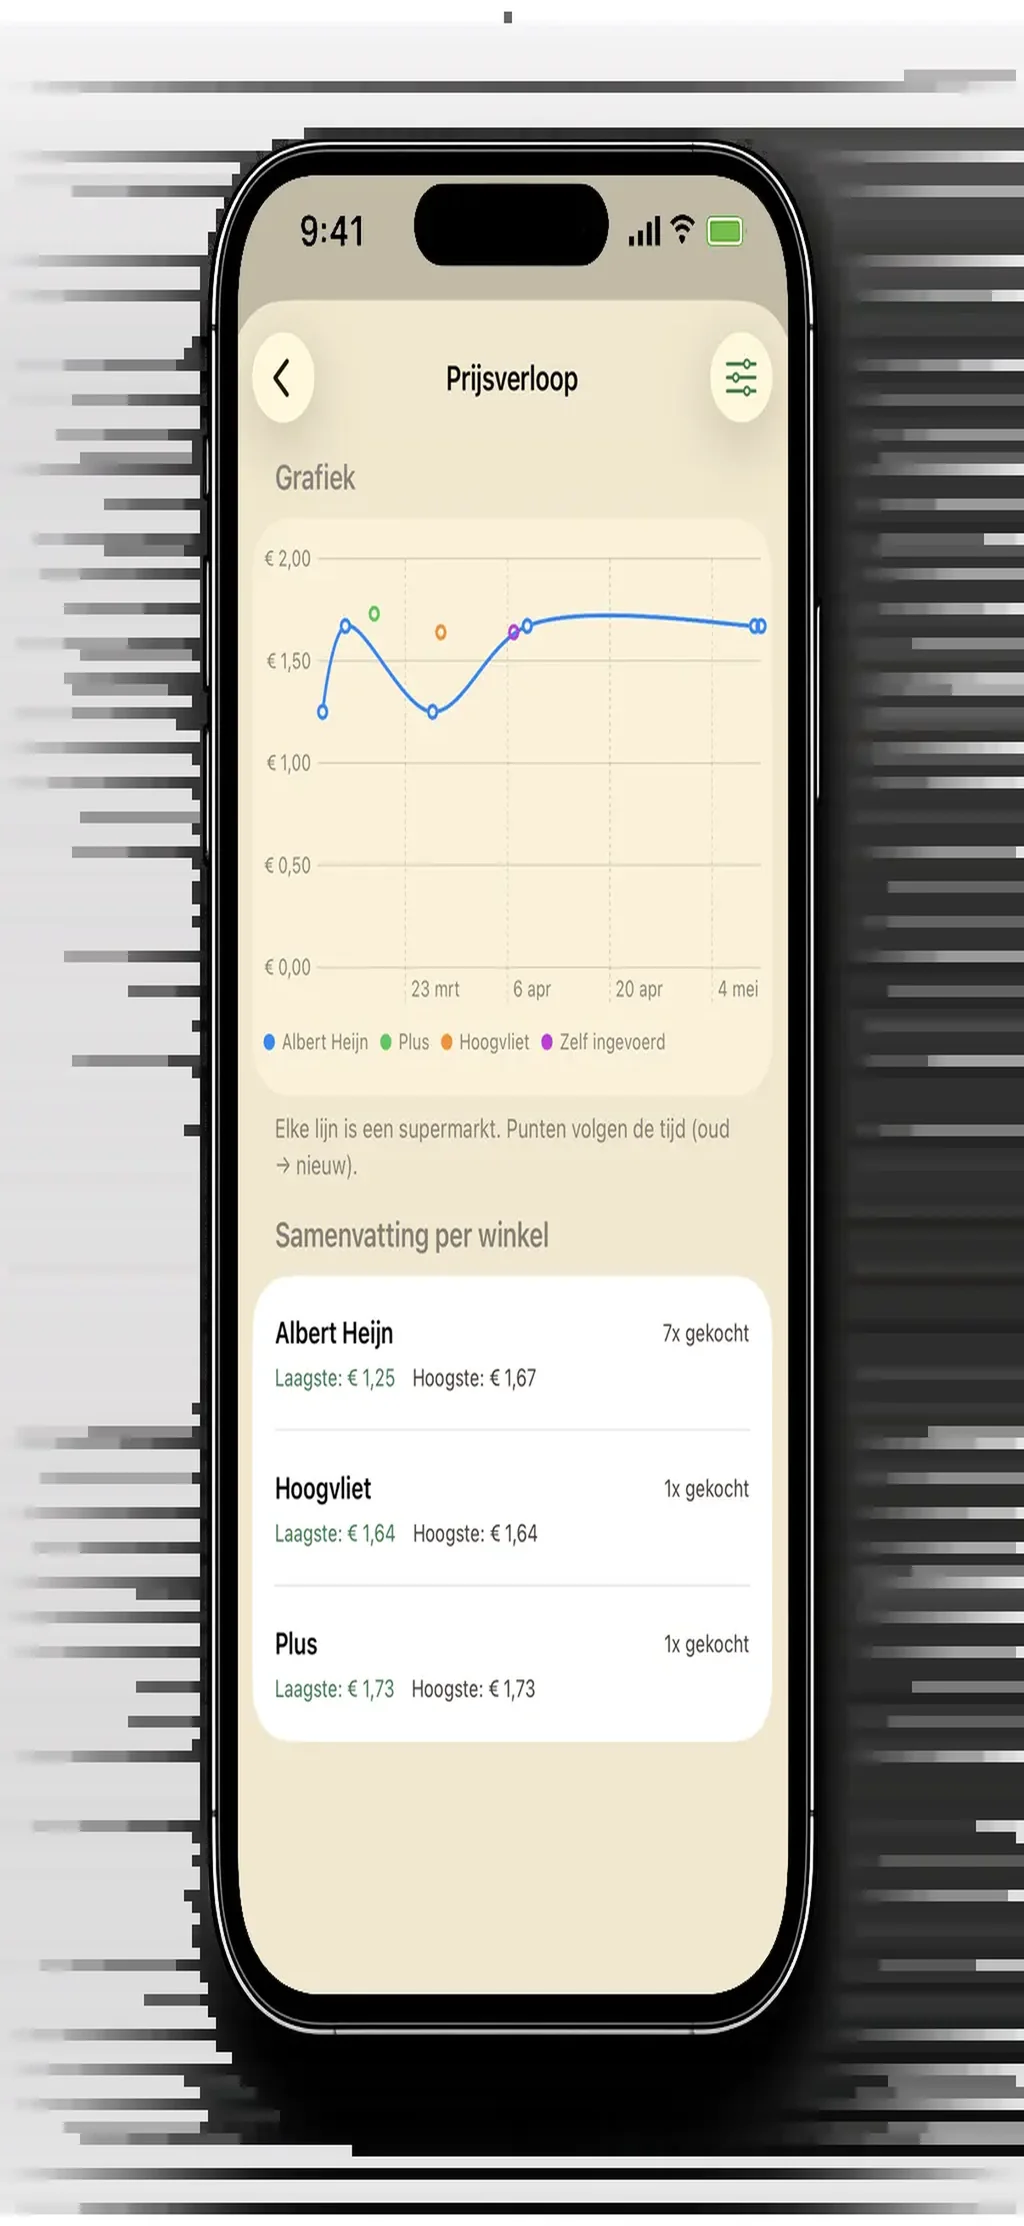
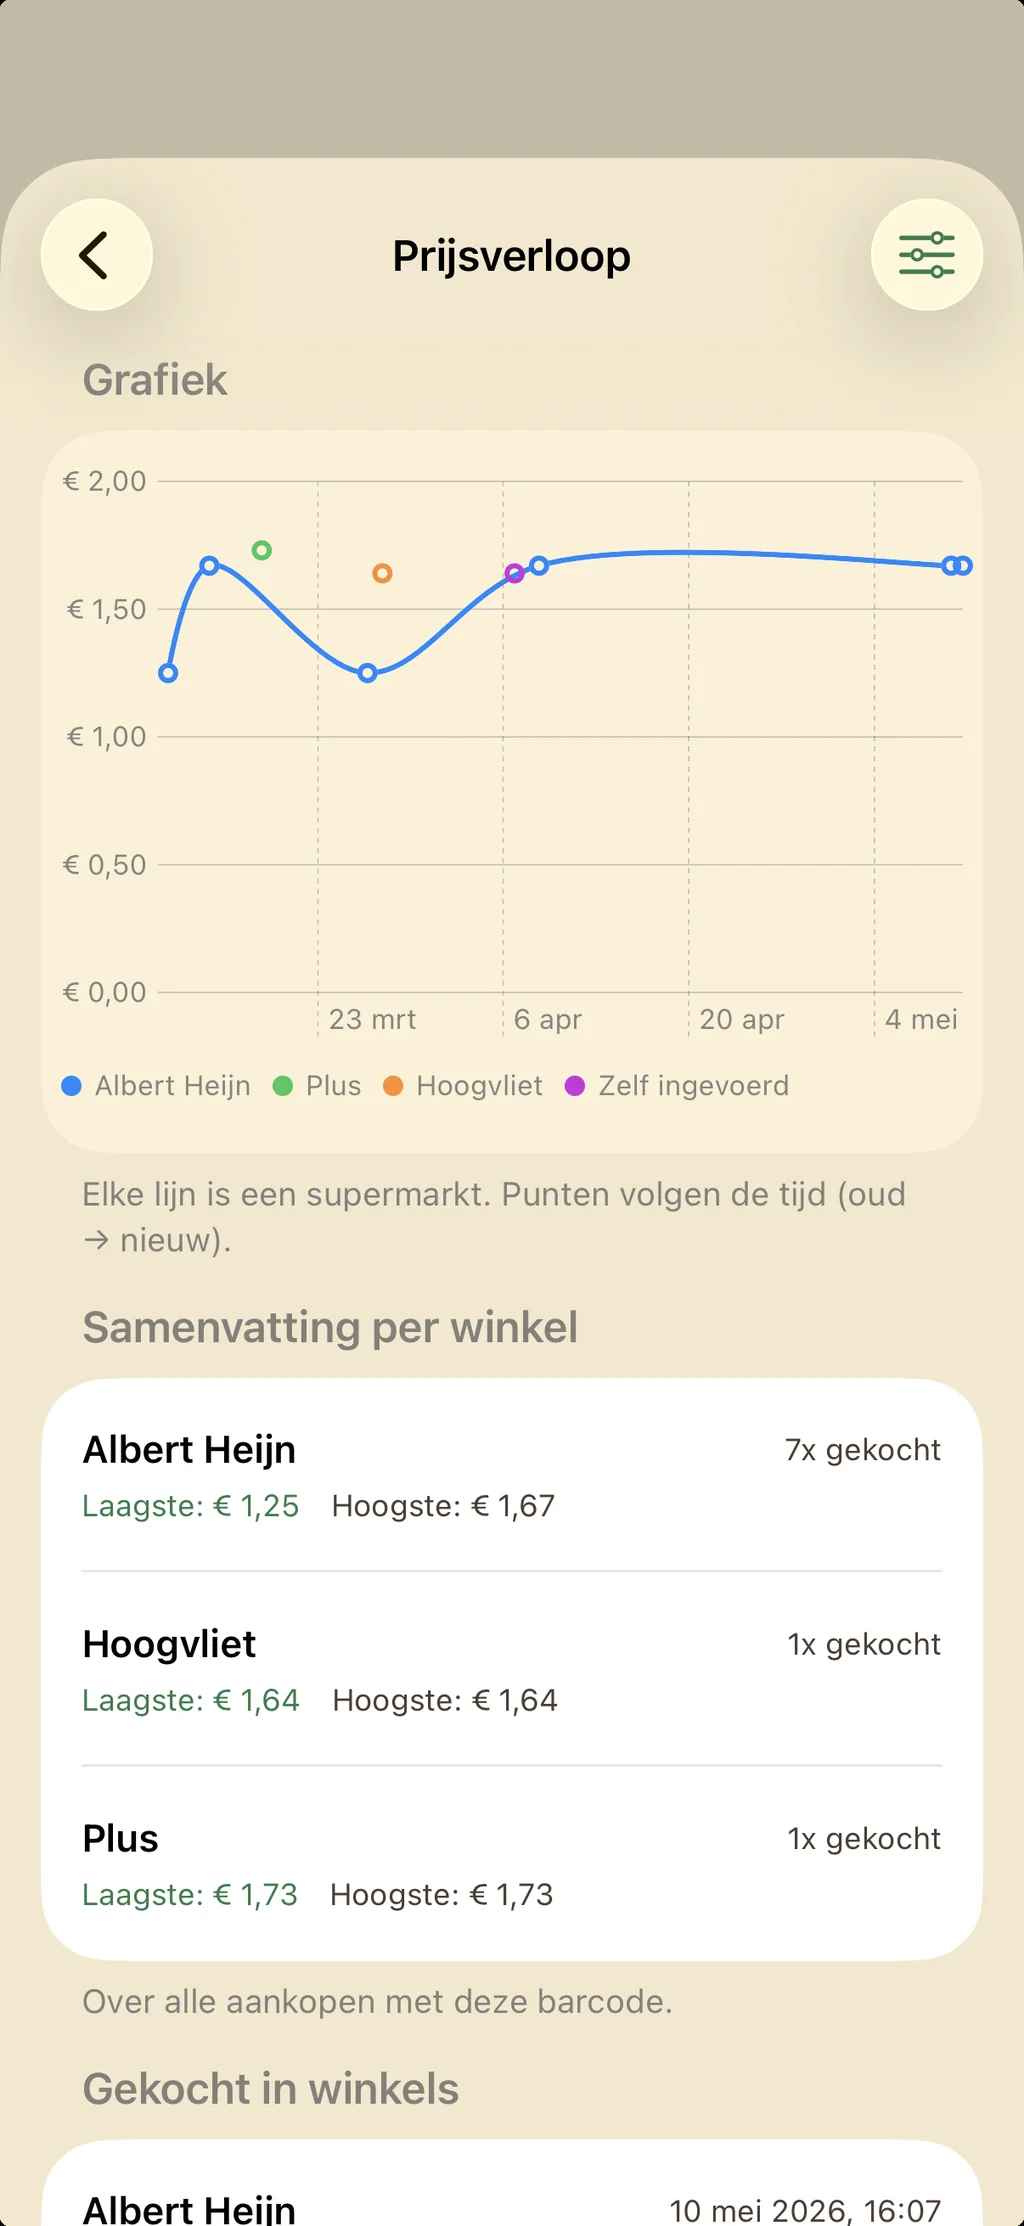
Add files via upload

diff --git a/css/style.css b/css/style.css
@@ -9,6 +9,8 @@
   --primary-light: #2d7a4a;
   --light-color: #f4f7f5;
   --dark-color: #163126;
+  --green-dark: #142920;
+  --green-mid: #1b4d2e;
   --muted-color: #4f6c60;
   --line-color: #d7e6df;
 }
@@ -169,15 +171,22 @@ img {
 .hero-trust {
   display: flex;
   flex-wrap: wrap;
-  gap: 10px 18px;
+  gap: 10px 22px;
   font-size: 0.88rem;
   color: var(--muted-color);
 }
 
+.hero-trust span {
+  display: inline-flex;
+  align-items: center;
+  gap: 10px;
+}
+
 .hero-trust span::before {
-  content: '\2713 ';
+  content: '\2713';
   color: var(--primary-light);
   font-weight: 700;
+  flex-shrink: 0;
 }
 
 /* App Store badge */
@@ -240,6 +249,33 @@ img {
 
 .video {
   padding: 10px 0 40px;
+  background-color: var(--green-dark);
+  color: #fff;
+}
+
+.video .text-xl,
+.video .text-md {
+  color: #fff;
+}
+
+.video .btn-primary {
+  background-color: #fff;
+  color: var(--green-dark);
+}
+
+.video .btn-primary:hover {
+  background-color: #e8f3ec;
+  opacity: 1;
+}
+
+.footer.bg-black .btn-primary {
+  background-color: #fff;
+  color: var(--green-dark);
+}
+
+.footer.bg-black .btn-primary:hover {
+  background-color: #e8f3ec;
+  opacity: 1;
 }
 
 .video-content {
@@ -310,11 +346,14 @@ img {
 .testimonials {
   padding: 40px 0;
   display: block;
+  background-color: var(--green-mid);
+  color: #fff;
 }
 
 .testimonials .testimonials-heading {
   max-width: 700px;
   margin-bottom: 40px;
+  color: #fff;
 }
 
 .testimonials-grid {
@@ -323,19 +362,15 @@ img {
   gap: 30px;
 }
 
-.testimonials .card p:first-child {
-  margin-bottom: 20px;
-  color: var(--muted-color);
+.testimonials .card h4 {
+  margin: 0 0 12px;
+  font-size: 1.05rem;
+  color: var(--primary-color);
 }
 
-.testimonials .card p:nth-child(2) {
-  margin-top: 30px;
-  font-weight: bold;
-}
-
-.testimonials .card p:nth-child(3) {
+.testimonials .card p {
+  margin: 0;
   color: var(--muted-color);
-  font-size: 0.9rem;
 }
 
 /* Pricing */
@@ -380,9 +415,18 @@ img {
   color: var(--muted-color);
 }
 
+.pricing .card.bg-black {
+  background-color: var(--green-dark);
+  color: #fff;
+}
+
 .pricing .card.bg-black ul li,
 .pricing .card.bg-black p {
-  color: #ddd;
+  color: #e8f0eb;
+}
+
+.pricing .card.bg-black .pricing-card-price {
+  border-bottom-color: rgba(255, 255, 255, 0.2);
 }
 
 /* FAQ */
@@ -473,15 +517,6 @@ img {
   height: 44px;
   border-radius: 10px;
   margin-bottom: 16px;
-}
-
-.footer-bottom {
-  margin-top: 30px;
-  padding-top: 20px;
-  border-top: 1px solid #333;
-  text-align: center;
-  font-size: 0.9rem;
-  color: #999;
 }
 
 /* Subpages */
@@ -671,13 +706,26 @@ img {
 }
 
 .bg-dark {
-  background-color: var(--dark-color);
+  background-color: var(--green-mid);
   color: #fff;
 }
 
 .bg-black {
-  background-color: black;
+  background-color: var(--green-dark);
   color: #fff;
+}
+
+.footer.bg-black {
+  background-color: var(--green-dark);
+}
+
+.footer-bottom {
+  margin-top: 30px;
+  padding-top: 20px;
+  border-top: 1px solid rgba(255, 255, 255, 0.15);
+  text-align: center;
+  font-size: 0.9rem;
+  color: #b8cfc4;
 }
 
 /* Hamburger Button */

diff --git a/home.html b/home.html
@@ -43,11 +43,7 @@
             <li><a href="home.html" class="active">Home</a></li>
             <li><a href="hoe-het-werkt.html">Hoe het werkt</a></li>
             <li><a href="support.html">Support</a></li>
-            <li>
-              <a class="btn btn-primary" href="index.html">
-                <i class="fas fa-shield-halved"></i> Privacy
-              </a>
-            </li>
+            <li><a href="index.html">Privacy</a></li>
           </ul>
         </div>
 
@@ -61,7 +57,7 @@
             <li><a href="home.html" class="active">Home</a></li>
             <li><a href="hoe-het-werkt.html">Hoe het werkt</a></li>
             <li><a href="support.html">Support</a></li>
-            <li><a class="btn btn-primary" href="index.html"><i class="fas fa-shield-halved"></i> Privacy</a></li>
+            <li><a href="index.html">Privacy</a></li>
           </ul>
         </div>
       </div>
@@ -186,36 +182,33 @@
       </div>
     </section>
 
-    <!-- Testimonials / Use cases -->
+    <!-- Kernpunten -->
     <section class="section testimonials bg-dark">
       <div class="container">
         <h3 class="testimonials-heading text-xl">
-          Waarom gebruikers BoodschappenScan kiezen — eerlijk prijsinzicht zonder valse beloftes
+          Waarom BoodschappenScan — eerlijk prijsinzicht zonder valse beloftes
         </h3>
         <div class="testimonials-grid">
           <div class="card">
+            <h4>Jouw eigen database</h4>
             <p>
-              “Ik begon met een lege app en vulde alles zelf in. Na een paar maanden zie ik duidelijk
-              welke supermarkt voor mijn vaste boodschappen het voordeligst is.”
+              Je begint met een lege app en vult alles zelf in. Na verloop van tijd zie je
+              welke supermarkt voor jouw vaste boodschappen historisch het voordeligst is.
             </p>
-            <p>Thuis op de bon</p>
-            <p>Handmatig invoeren na het winkelen</p>
           </div>
           <div class="card">
+            <h4>Privé by design</h4>
             <p>
-              “Geen account, geen advertenties — alles blijft op mijn iPhone. Precies wat ik zocht
-              voor mijn boodschappenbudget zonder mijn data te delen.”
+              Geen account, geen advertenties — alles blijft op je iPhone. Je maakt zelf
+              een back-up wanneer jij dat wilt.
             </p>
-            <p>Privé by design</p>
-            <p>Lokaal opgeslagen, zelf back-up maken</p>
           </div>
           <div class="card">
+            <h4>Meerdere supermarkten</h4>
             <p>
-              “De vergelijkingsfunctie wordt steeds beter naarmate ik bij meer winkels bonnen invoer.
-              Kiloprijs en categorieën helpen echt bij eerlijke vergelijking.”
+              Hoe vaker je bij verschillende ketens bonnen invoert, hoe betrouwbaarder je
+              vergelijking wordt. Kiloprijs en categorieën helpen bij een eerlijke vergelijking.
             </p>
-            <p>Meerdere supermarkten</p>
-            <p>Secuur invoeren loont op lange termijn</p>
           </div>
         </div>
       </div>

diff --git a/hoe-het-werkt.html b/hoe-het-werkt.html
@@ -27,7 +27,7 @@
           <li><a href="home.html">Home</a></li>
           <li><a href="hoe-het-werkt.html" class="active">Hoe het werkt</a></li>
           <li><a href="support.html">Support</a></li>
-          <li><a class="btn btn-primary" href="index.html"><i class="fas fa-shield-halved"></i> Privacy</a></li>
+          <li><a href="index.html">Privacy</a></li>
         </ul>
       </div>
       <button class="hamburger-button" aria-label="Menu openen">
@@ -40,7 +40,7 @@
           <li><a href="home.html">Home</a></li>
           <li><a href="hoe-het-werkt.html" class="active">Hoe het werkt</a></li>
           <li><a href="support.html">Support</a></li>
-          <li><a class="btn btn-primary" href="index.html"><i class="fas fa-shield-halved"></i> Privacy</a></li>
+          <li><a href="index.html">Privacy</a></li>
         </ul>
       </div>
     </div>

diff --git a/index.html b/index.html
@@ -27,7 +27,7 @@
           <li><a href="home.html">Home</a></li>
           <li><a href="hoe-het-werkt.html">Hoe het werkt</a></li>
           <li><a href="support.html">Support</a></li>
-          <li><a class="btn btn-primary active" href="index.html"><i class="fas fa-shield-halved"></i> Privacy</a></li>
+          <li><a href="index.html" class="active">Privacy</a></li>
         </ul>
       </div>
       <button class="hamburger-button" aria-label="Menu openen">
@@ -40,7 +40,7 @@
           <li><a href="home.html">Home</a></li>
           <li><a href="hoe-het-werkt.html">Hoe het werkt</a></li>
           <li><a href="support.html">Support</a></li>
-          <li><a class="btn btn-primary active" href="index.html"><i class="fas fa-shield-halved"></i> Privacy</a></li>
+          <li><a href="index.html" class="active">Privacy</a></li>
         </ul>
       </div>
     </div>

diff --git a/support.html b/support.html
@@ -27,7 +27,7 @@
           <li><a href="home.html">Home</a></li>
           <li><a href="hoe-het-werkt.html">Hoe het werkt</a></li>
           <li><a href="support.html" class="active">Support</a></li>
-          <li><a class="btn btn-primary" href="index.html"><i class="fas fa-shield-halved"></i> Privacy</a></li>
+          <li><a href="index.html">Privacy</a></li>
         </ul>
       </div>
       <button class="hamburger-button" aria-label="Menu openen">
@@ -40,7 +40,7 @@
           <li><a href="home.html">Home</a></li>
           <li><a href="hoe-het-werkt.html">Hoe het werkt</a></li>
           <li><a href="support.html" class="active">Support</a></li>
-          <li><a class="btn btn-primary" href="index.html"><i class="fas fa-shield-halved"></i> Privacy</a></li>
+          <li><a href="index.html">Privacy</a></li>
         </ul>
       </div>
     </div>